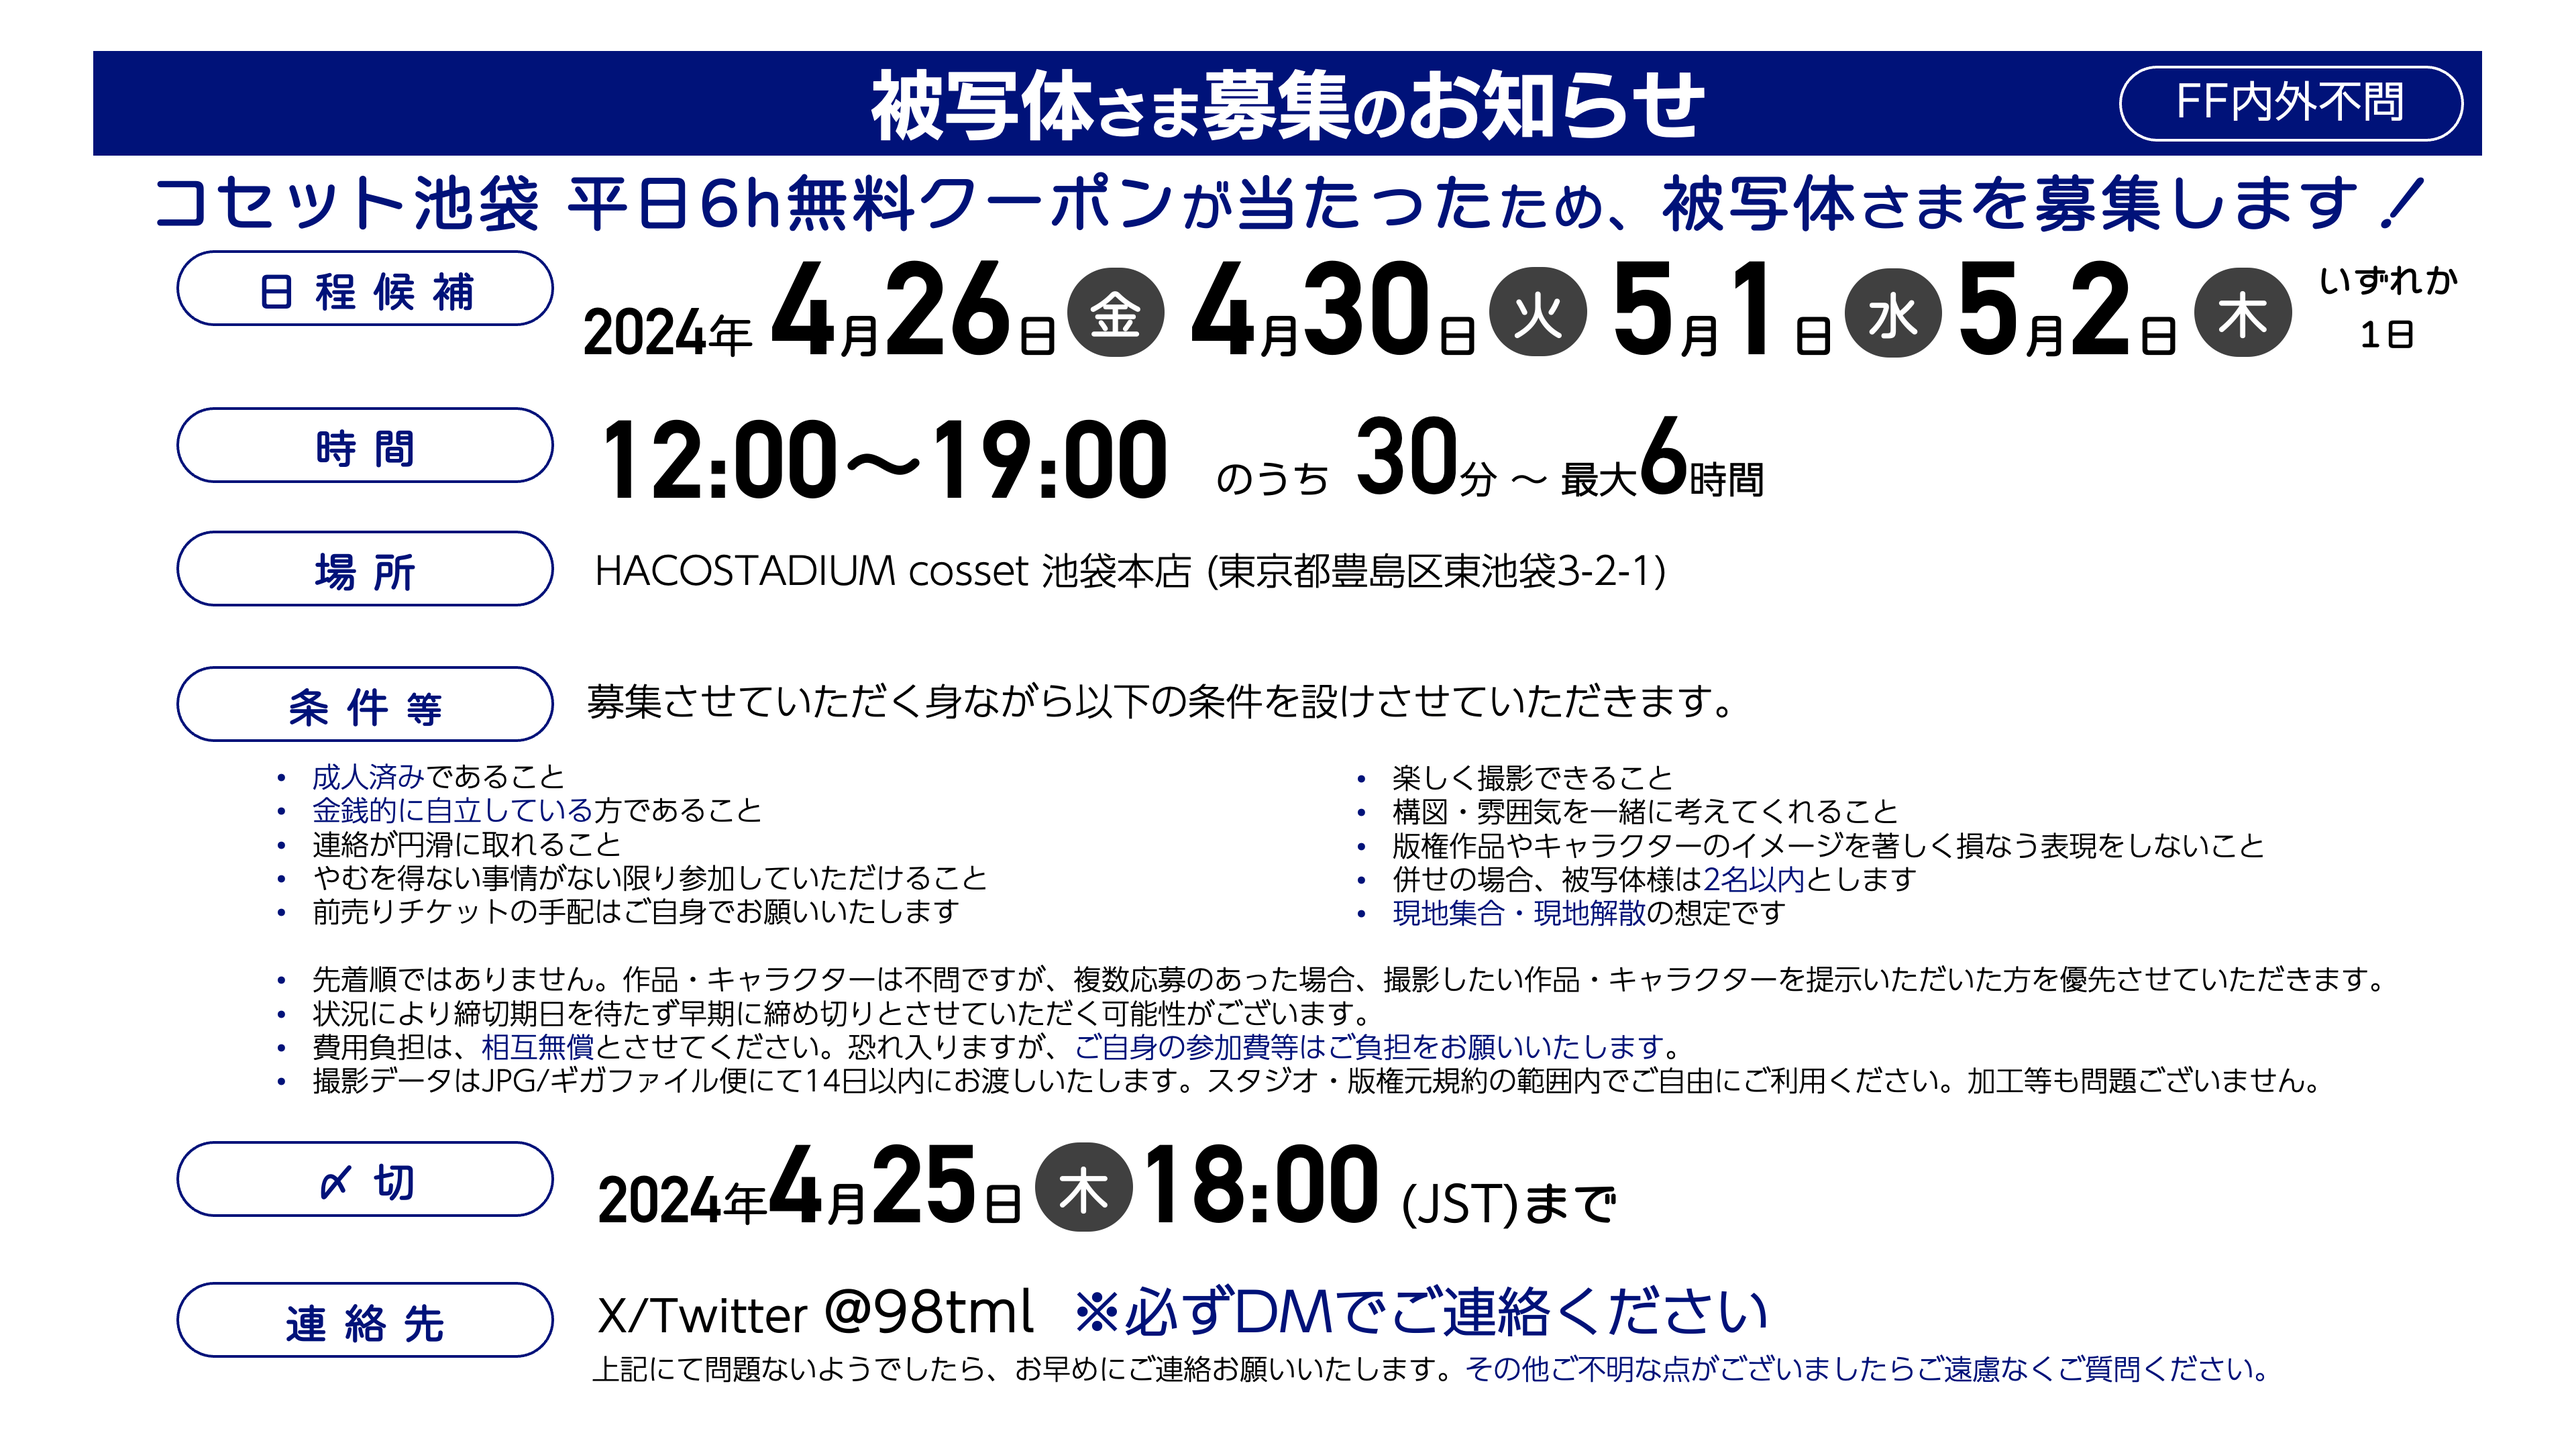
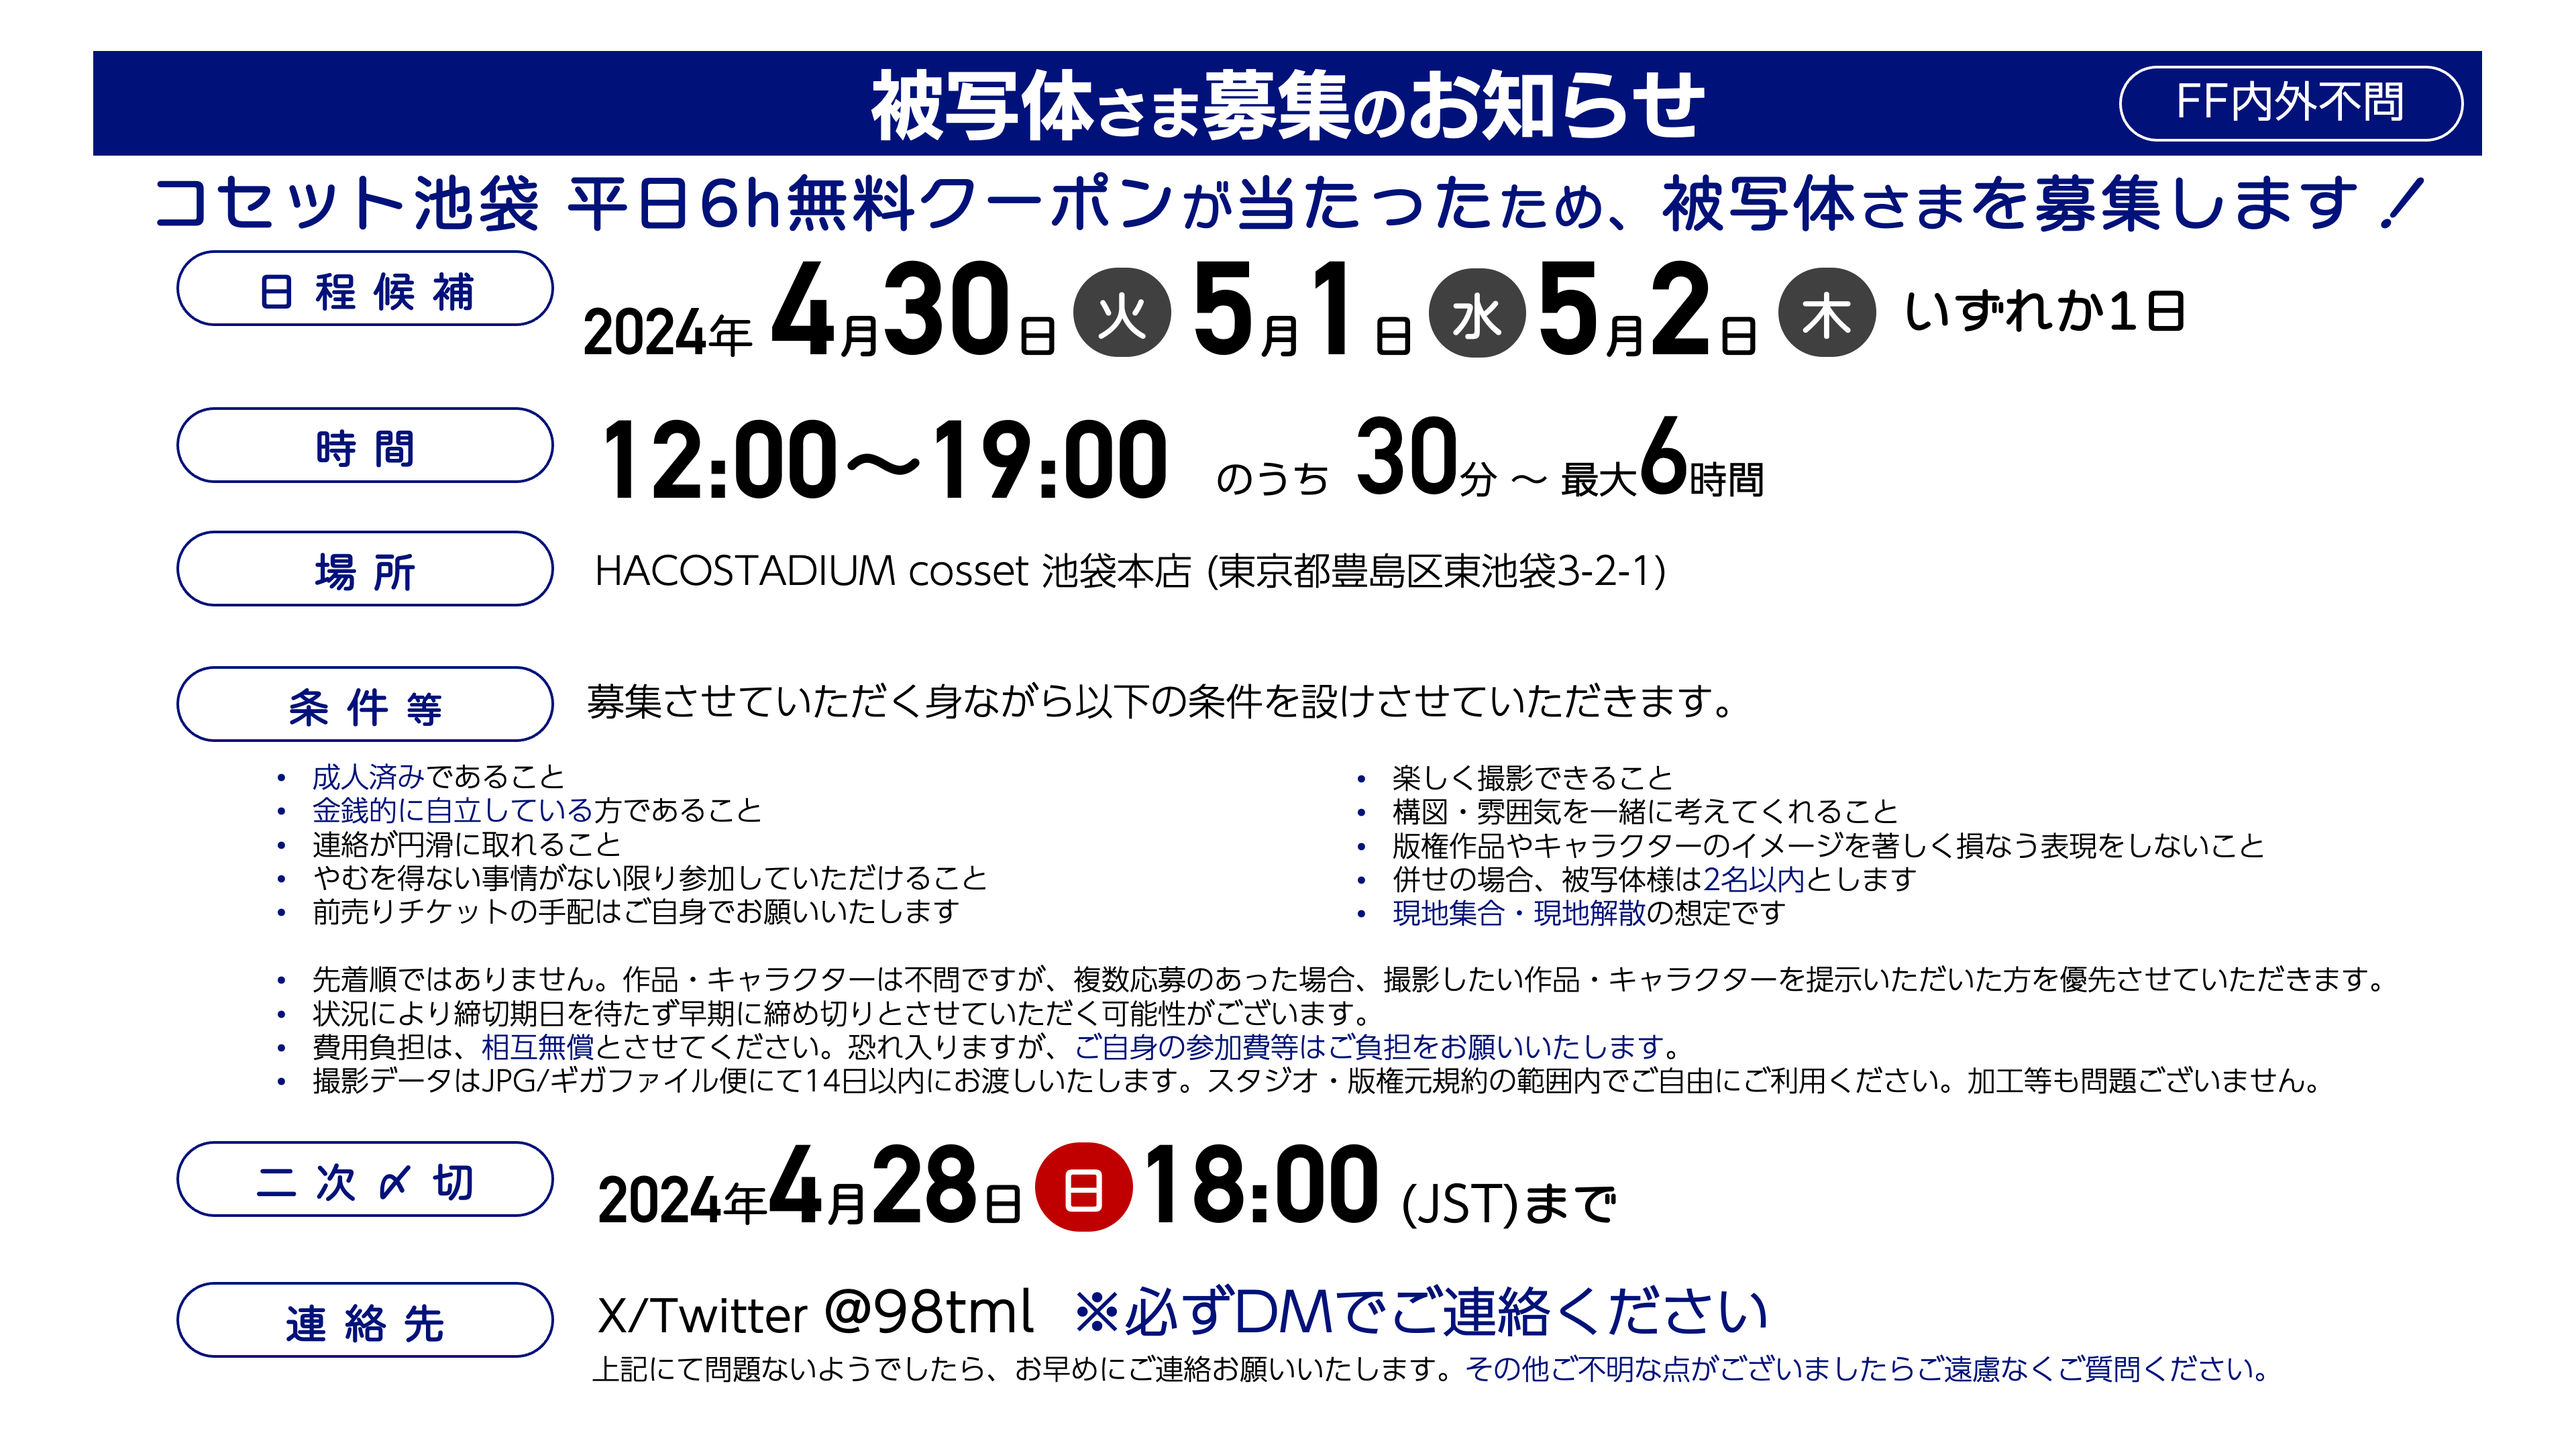
update 042401 日程変更

Changed region(s): [[0.3438, 0.1551, 0.9688, 0.2481], [0.3438, 0.7755, 0.4375, 0.8685], [0.0938, 0.8065, 0.1875, 0.8375]]

diff --git a/docs/posts/2024/042401/index.html b/docs/posts/2024/042401/index.html
@@ -8,8 +8,8 @@
   <meta name="viewport" content="width=device-width, initial-scale=1.0" />
   <meta http-equiv="X-UA-Compatible" content="ie=edge" />
   
-  <title>【被写体募集】4/26・4/30・5/1・5/2@コセット池袋 &middot; にじてくと</title>
-  <meta name="title" content="【被写体募集】4/26・4/30・5/1・5/2@コセット池袋 &middot; にじてくと" />
+  <title>【被写体募集】4/30・5/1・5/2@コセット池袋 &middot; にじてくと</title>
+  <meta name="title" content="【被写体募集】4/30・5/1・5/2@コセット池袋 &middot; にじてくと" />
   
   <meta name="description" content="ほむりん(@98tml). 写真撮影,動画編集,Webサイト製作/保守." />
   <meta name="keywords" content="コセット池袋, 関東, 被写体募集, " />
@@ -60,16 +60,16 @@
   
   
   
-  <meta property="og:title" content="【被写体募集】4/26・4/30・5/1・5/2@コセット池袋" />
+  <meta property="og:title" content="【被写体募集】4/30・5/1・5/2@コセット池袋" />
 <meta property="og:description" content="" />
 <meta property="og:type" content="article" />
 <meta property="og:url" content="https://cp.t98.info/posts/2024/042401/" /><meta property="article:section" content="posts" />
 <meta property="article:published_time" content="2024-04-24T13:12:00+09:00" />
-<meta property="article:modified_time" content="2024-04-24T13:12:00+09:00" />
+<meta property="article:modified_time" content="2024-04-24T13:20:02+09:00" />
 
 
 
-  <meta name="twitter:card" content="summary"/><meta name="twitter:title" content="【被写体募集】4/26・4/30・5/1・5/2@コセット池袋"/>
+  <meta name="twitter:card" content="summary"/><meta name="twitter:title" content="【被写体募集】4/30・5/1・5/2@コセット池袋"/>
 <meta name="twitter:description" content=""/>
 
   
@@ -78,8 +78,8 @@
     "@context": "https://schema.org",
     "@type": "Article",
     "articleSection": "",
-    "name": "【被写体募集】4\/26・4\/30・5\/1・5\/2@コセット池袋",
-    "headline": "【被写体募集】4\/26・4\/30・5\/1・5\/2@コセット池袋",
+    "name": "【被写体募集】4\/30・5\/1・5\/2@コセット池袋",
+    "headline": "【被写体募集】4\/30・5\/1・5\/2@コセット池袋",
     
     
     "inLanguage": "ja",
@@ -92,12 +92,12 @@
     "dateCreated": "2024-04-24T13:12:00\u002b09:00",
     "datePublished": "2024-04-24T13:12:00\u002b09:00",
     
-    "dateModified": "2024-04-24T13:12:00\u002b09:00",
+    "dateModified": "2024-04-24T13:20:02\u002b09:00",
     
     "keywords": ["コセット池袋","関東","被写体募集"],
     
     "mainEntityOfPage": "true",
-    "wordCount": "707"
+    "wordCount": "759"
   }]
   </script>
 
@@ -571,7 +571,7 @@
     <a
       class="hover:underline decoration-neutral-300 dark:underline-neutral-600"
       href="/posts/2024/042401/"
-      >【被写体募集】4/26・4/30・5/1・5/2@コセット池袋</a
+      >【被写体募集】4/30・5/1・5/2@コセット池袋</a
     ><span class="px-1 text-primary-500">/</span>
   </li>
 
@@ -580,7 +580,7 @@
 
     
     <h1 class="mt-0 text-4xl font-extrabold text-neutral-900 dark:text-neutral">
-      【被写体募集】4/26・4/30・5/1・5/2@コセット池袋
+      【被写体募集】4/30・5/1・5/2@コセット池袋
     </h1>
     <div class="mt-1 mb-6 text-base text-neutral-500 dark:text-neutral-400 print:hidden">
       
@@ -814,7 +814,11 @@
 
 
         <div class="article-content max-w-prose mb-20">
-          <p>コセット池袋 無料クーポンが当たったため、被写体様を募集します。</p>
+          <p>2024/04/25 18:00 追記</p>
+<p>一次募集は締め切りました。
+撮影させてくださる方を見つけることができなかったため、日程を変更のうえ二次募集をいたします。</p>
+<hr>
+<p>コセット池袋 無料クーポンが当たったため、被写体様を募集します。</p>
 <p>
 
 
@@ -874,10 +878,10 @@
     
 </h3>
 <ul>
-<li>2024/4/26(金), 4/30(火), 5/1(水), 5/2(木) いずれか1日間</li>
+<li><del>4/26(金)</del>, 4/30(火), 5/1(水), 5/2(木) いずれか1日間</li>
 <li>12:00〜19:00 のうち最大6時間</li>
 </ul>
-<p>撮影開始・終了時間はご都合のよい形に合わせます。最大6時間は準備の時間を含みます。</p>
+<p>撮影開始・終了時間はご都合のよい形に合わせます。</p>
 
 
 <h3 class="relative group">■ 締切 
@@ -891,7 +895,7 @@
     
 </h3>
 <ul>
-<li>2024/4/25 18:00(JST) まで</li>
+<li>2024/4/28(日) 18:00(JST) まで</li>
 </ul>
 
 
@@ -977,7 +981,7 @@
       <a
       target="_blank"
       class="m-1 rounded bg-neutral-300 p-1.5 text-neutral-700 hover:bg-primary-500 hover:text-neutral dark:bg-neutral-700 dark:text-neutral-300 dark:hover:bg-primary-400 dark:hover:text-neutral-800"
-      href="https://twitter.com/intent/tweet/?url=https://cp.t98.info/posts/2024/042401/&amp;text=%e3%80%90%e8%a2%ab%e5%86%99%e4%bd%93%e5%8b%9f%e9%9b%86%e3%80%914/26%e3%83%bb4/30%e3%83%bb5/1%e3%83%bb5/2@%e3%82%b3%e3%82%bb%e3%83%83%e3%83%88%e6%b1%a0%e8%a2%8b"
+      href="https://twitter.com/intent/tweet/?url=https://cp.t98.info/posts/2024/042401/&amp;text=%e3%80%90%e8%a2%ab%e5%86%99%e4%bd%93%e5%8b%9f%e9%9b%86%e3%80%914/30%e3%83%bb5/1%e3%83%bb5/2@%e3%82%b3%e3%82%bb%e3%83%83%e3%83%88%e6%b1%a0%e8%a2%8b"
       title="X/Twitterにポスト"
       aria-label="X/Twitterにポスト"
       >

diff --git a/docs/posts/2023/120701/index.html b/docs/posts/2023/120701/index.html
@@ -1057,7 +1057,7 @@
               <span class="flex flex-col">
                 <span
                   class="mt-[0.1rem] leading-6 group-hover:underline group-hover:decoration-primary-500"
-                  >【被写体募集】4/26・4/30・5/1・5/2@コセット池袋</span
+                  >【被写体募集】4/30・5/1・5/2@コセット池袋</span
                 >
                 <span class="mt-[0.1rem] text-xs text-neutral-500 dark:text-neutral-400">
                   

diff --git a/docs/categories/募集中/index.html b/docs/categories/募集中/index.html
@@ -635,7 +635,7 @@
       <div class="items-center text-left text-xl font-semibold">
         
         <div class="font-bold text-xl text-neutral-800 decoration-primary-500 hover:underline hover:underline-offset-2 dark:text-neutral"
-          href="/posts/2024/042401/">【被写体募集】4/26・4/30・5/1・5/2@コセット池袋</div>
+          href="/posts/2024/042401/">【被写体募集】4/30・5/1・5/2@コセット池袋</div>
         
         
         

diff --git a/docs/posts/index.html b/docs/posts/index.html
@@ -633,7 +633,7 @@
       <div class="items-center text-left text-xl font-semibold">
         
         <div class="font-bold text-xl text-neutral-800 decoration-primary-500 hover:underline hover:underline-offset-2 dark:text-neutral"
-          href="/posts/2024/042401/">【被写体募集】4/26・4/30・5/1・5/2@コセット池袋</div>
+          href="/posts/2024/042401/">【被写体募集】4/30・5/1・5/2@コセット池袋</div>
         
         
         

diff --git a/docs/tags/コセット池袋/index.html b/docs/tags/コセット池袋/index.html
@@ -635,7 +635,7 @@
       <div class="items-center text-left text-xl font-semibold">
         
         <div class="font-bold text-xl text-neutral-800 decoration-primary-500 hover:underline hover:underline-offset-2 dark:text-neutral"
-          href="/posts/2024/042401/">【被写体募集】4/26・4/30・5/1・5/2@コセット池袋</div>
+          href="/posts/2024/042401/">【被写体募集】4/30・5/1・5/2@コセット池袋</div>
         
         
         

diff --git a/docs/tags/被写体募集/index.html b/docs/tags/被写体募集/index.html
@@ -635,7 +635,7 @@
       <div class="items-center text-left text-xl font-semibold">
         
         <div class="font-bold text-xl text-neutral-800 decoration-primary-500 hover:underline hover:underline-offset-2 dark:text-neutral"
-          href="/posts/2024/042401/">【被写体募集】4/26・4/30・5/1・5/2@コセット池袋</div>
+          href="/posts/2024/042401/">【被写体募集】4/30・5/1・5/2@コセット池袋</div>
         
         
         

diff --git a/docs/tags/関東/index.html b/docs/tags/関東/index.html
@@ -635,7 +635,7 @@
       <div class="items-center text-left text-xl font-semibold">
         
         <div class="font-bold text-xl text-neutral-800 decoration-primary-500 hover:underline hover:underline-offset-2 dark:text-neutral"
-          href="/posts/2024/042401/">【被写体募集】4/26・4/30・5/1・5/2@コセット池袋</div>
+          href="/posts/2024/042401/">【被写体募集】4/30・5/1・5/2@コセット池袋</div>
         
         
         

diff --git a/docs/index.html b/docs/index.html
@@ -681,7 +681,7 @@
 
         
         <div class="font-bold text-xl text-neutral-800 decoration-primary-500 hover:underline hover:underline-offset-2 dark:text-neutral"
-          href="/posts/2024/042401/">【被写体募集】4/26・4/30・5/1・5/2@コセット池袋</div>
+          href="/posts/2024/042401/">【被写体募集】4/30・5/1・5/2@コセット池袋</div>
         
 
         <div class="text-sm text-neutral-500 dark:text-neutral-400">

diff --git a/content/posts/2024/042401/index.md b/content/posts/2024/042401/index.md
@@ -1,9 +1,16 @@
 ---
-title: "【被写体募集】4/26・4/30・5/1・5/2@コセット池袋"
+title: "【被写体募集】4/30・5/1・5/2@コセット池袋"
 date: 2024-04-24T13:12:00+09:00
 draft: false
 categories: ["募集中"]
 tags: ["コセット池袋","関東","被写体募集"]
+---
+
+2024/04/25 18:00 追記
+
+一次募集は締め切りました。
+撮影させてくださる方を見つけることができなかったため、日程を変更のうえ二次募集をいたします。
+
 ---
 
 コセット池袋 無料クーポンが当たったため、被写体様を募集します。
@@ -23,14 +30,14 @@ https://hacostadium.com/ikebukuro/access/
 
 ### ■ 日時
 
-* 2024/4/26(金), 4/30(火), 5/1(水), 5/2(木) いずれか1日間
+* ~~4/26(金)~~, 4/30(火), 5/1(水), 5/2(木) いずれか1日間
 * 12:00〜19:00 のうち最大6時間
 
-撮影開始・終了時間はご都合のよい形に合わせます。最大6時間は準備の時間を含みます。
+撮影開始・終了時間はご都合のよい形に合わせます。
 
 ### ■ 締切
 
-* 2024/4/25 18:00(JST) まで
+* 2024/4/28(日) 18:00(JST) まで
 
 ### ■ 費用
 
